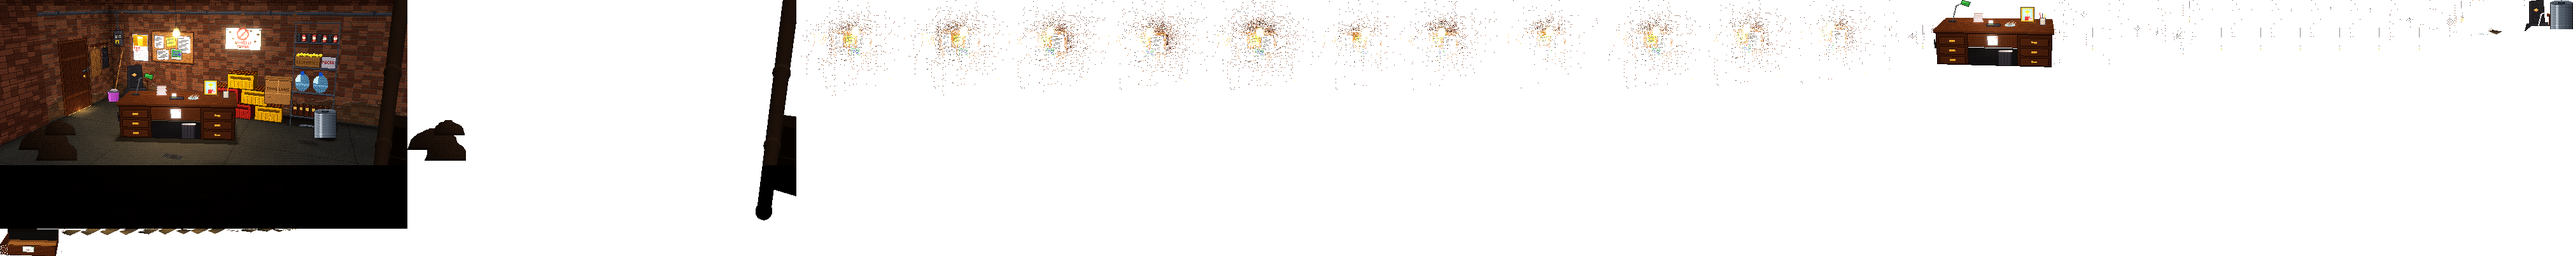
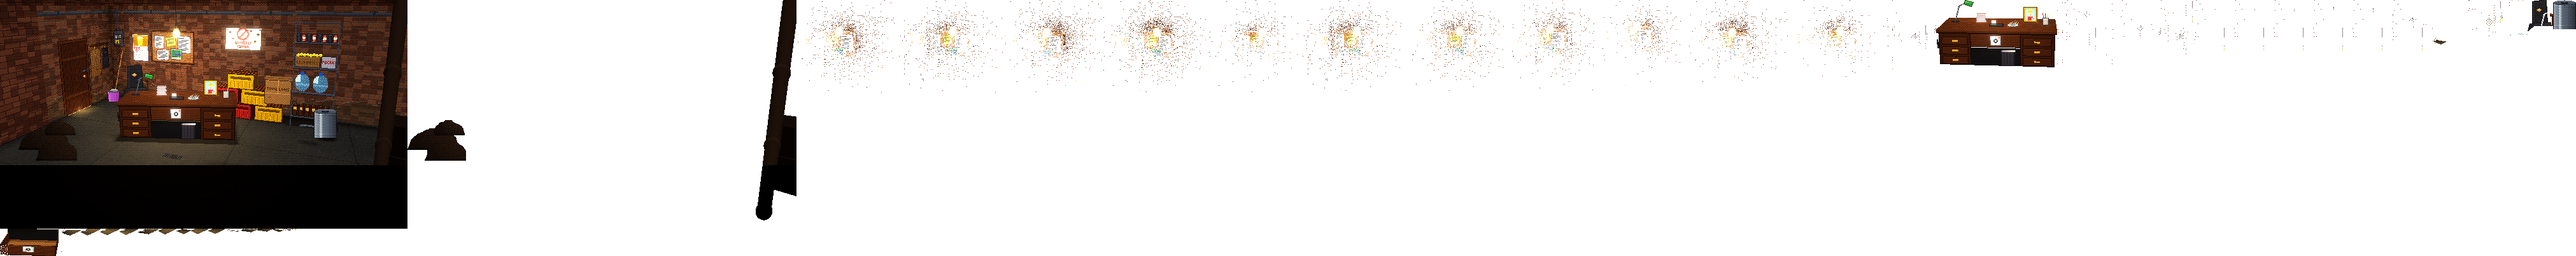
Suma Zero: el pany del calaix del rebost ja no sembla la servilleta de la recepta (235)

diff --git a/games/suma-zero/adapters/benne/tools/hd640/rooms/bar_rebost_pla_comu.py b/games/suma-zero/adapters/benne/tools/hd640/rooms/bar_rebost_pla_comu.py
@@ -268,11 +268,12 @@ def drawer(cv, open_=False):
     for x in range(263, 335):
         if hr(x, y0, 21) > 0.9:
             cv.put(x, y0 + 8 + int(hr(x, 22) * 8), WOOD, 2.2)               # rascades
-    # el pany: plàstic blanc lluent, molt més nou que tot el que l'envolta
+    # el pany: plàstic blanc lluent, molt més nou que tot el que l'envolta (però no tan blanc com un paper: amb el
+    # calaix obert semblava la servilleta de la recepta, tasca 235), amb el pom fosc al mig, que es vegi que és un pany
     lx0, ly0 = 291, y0 + 3
-    obox(cv, lx0, ly0, lx0 + 16, ly0 + 15, WHITEP, 4.0, top=1.2)
-    cv.disc(lx0 + 8, ly0 + 8, 3.2, 3.2, WHITEP, lambda nx, ny: 2.8 - ny)
-    cv.disc(lx0 + 8, ly0 + 8, 1.4, 1.4, WHITEP, 1.6)                     # el bombí, de pega
+    obox(cv, lx0, ly0, lx0 + 16, ly0 + 15, WHITEP, 3.0, top=1.2)
+    cv.disc(lx0 + 8, ly0 + 8, 3.6, 3.6, SLATE, lambda nx, ny: 3.4 - ny)
+    cv.disc(lx0 + 8, ly0 + 8, 1.6, 1.6, WHITEP, 2.0)                     # el bombí, de pega
     led = (60, 230, 100) if open_ else (240, 40, 40)
     cv.flat(lx0 + 13, ly0 + 3, led)
     cv.flat(lx0 + 14, ly0 + 3, led)
